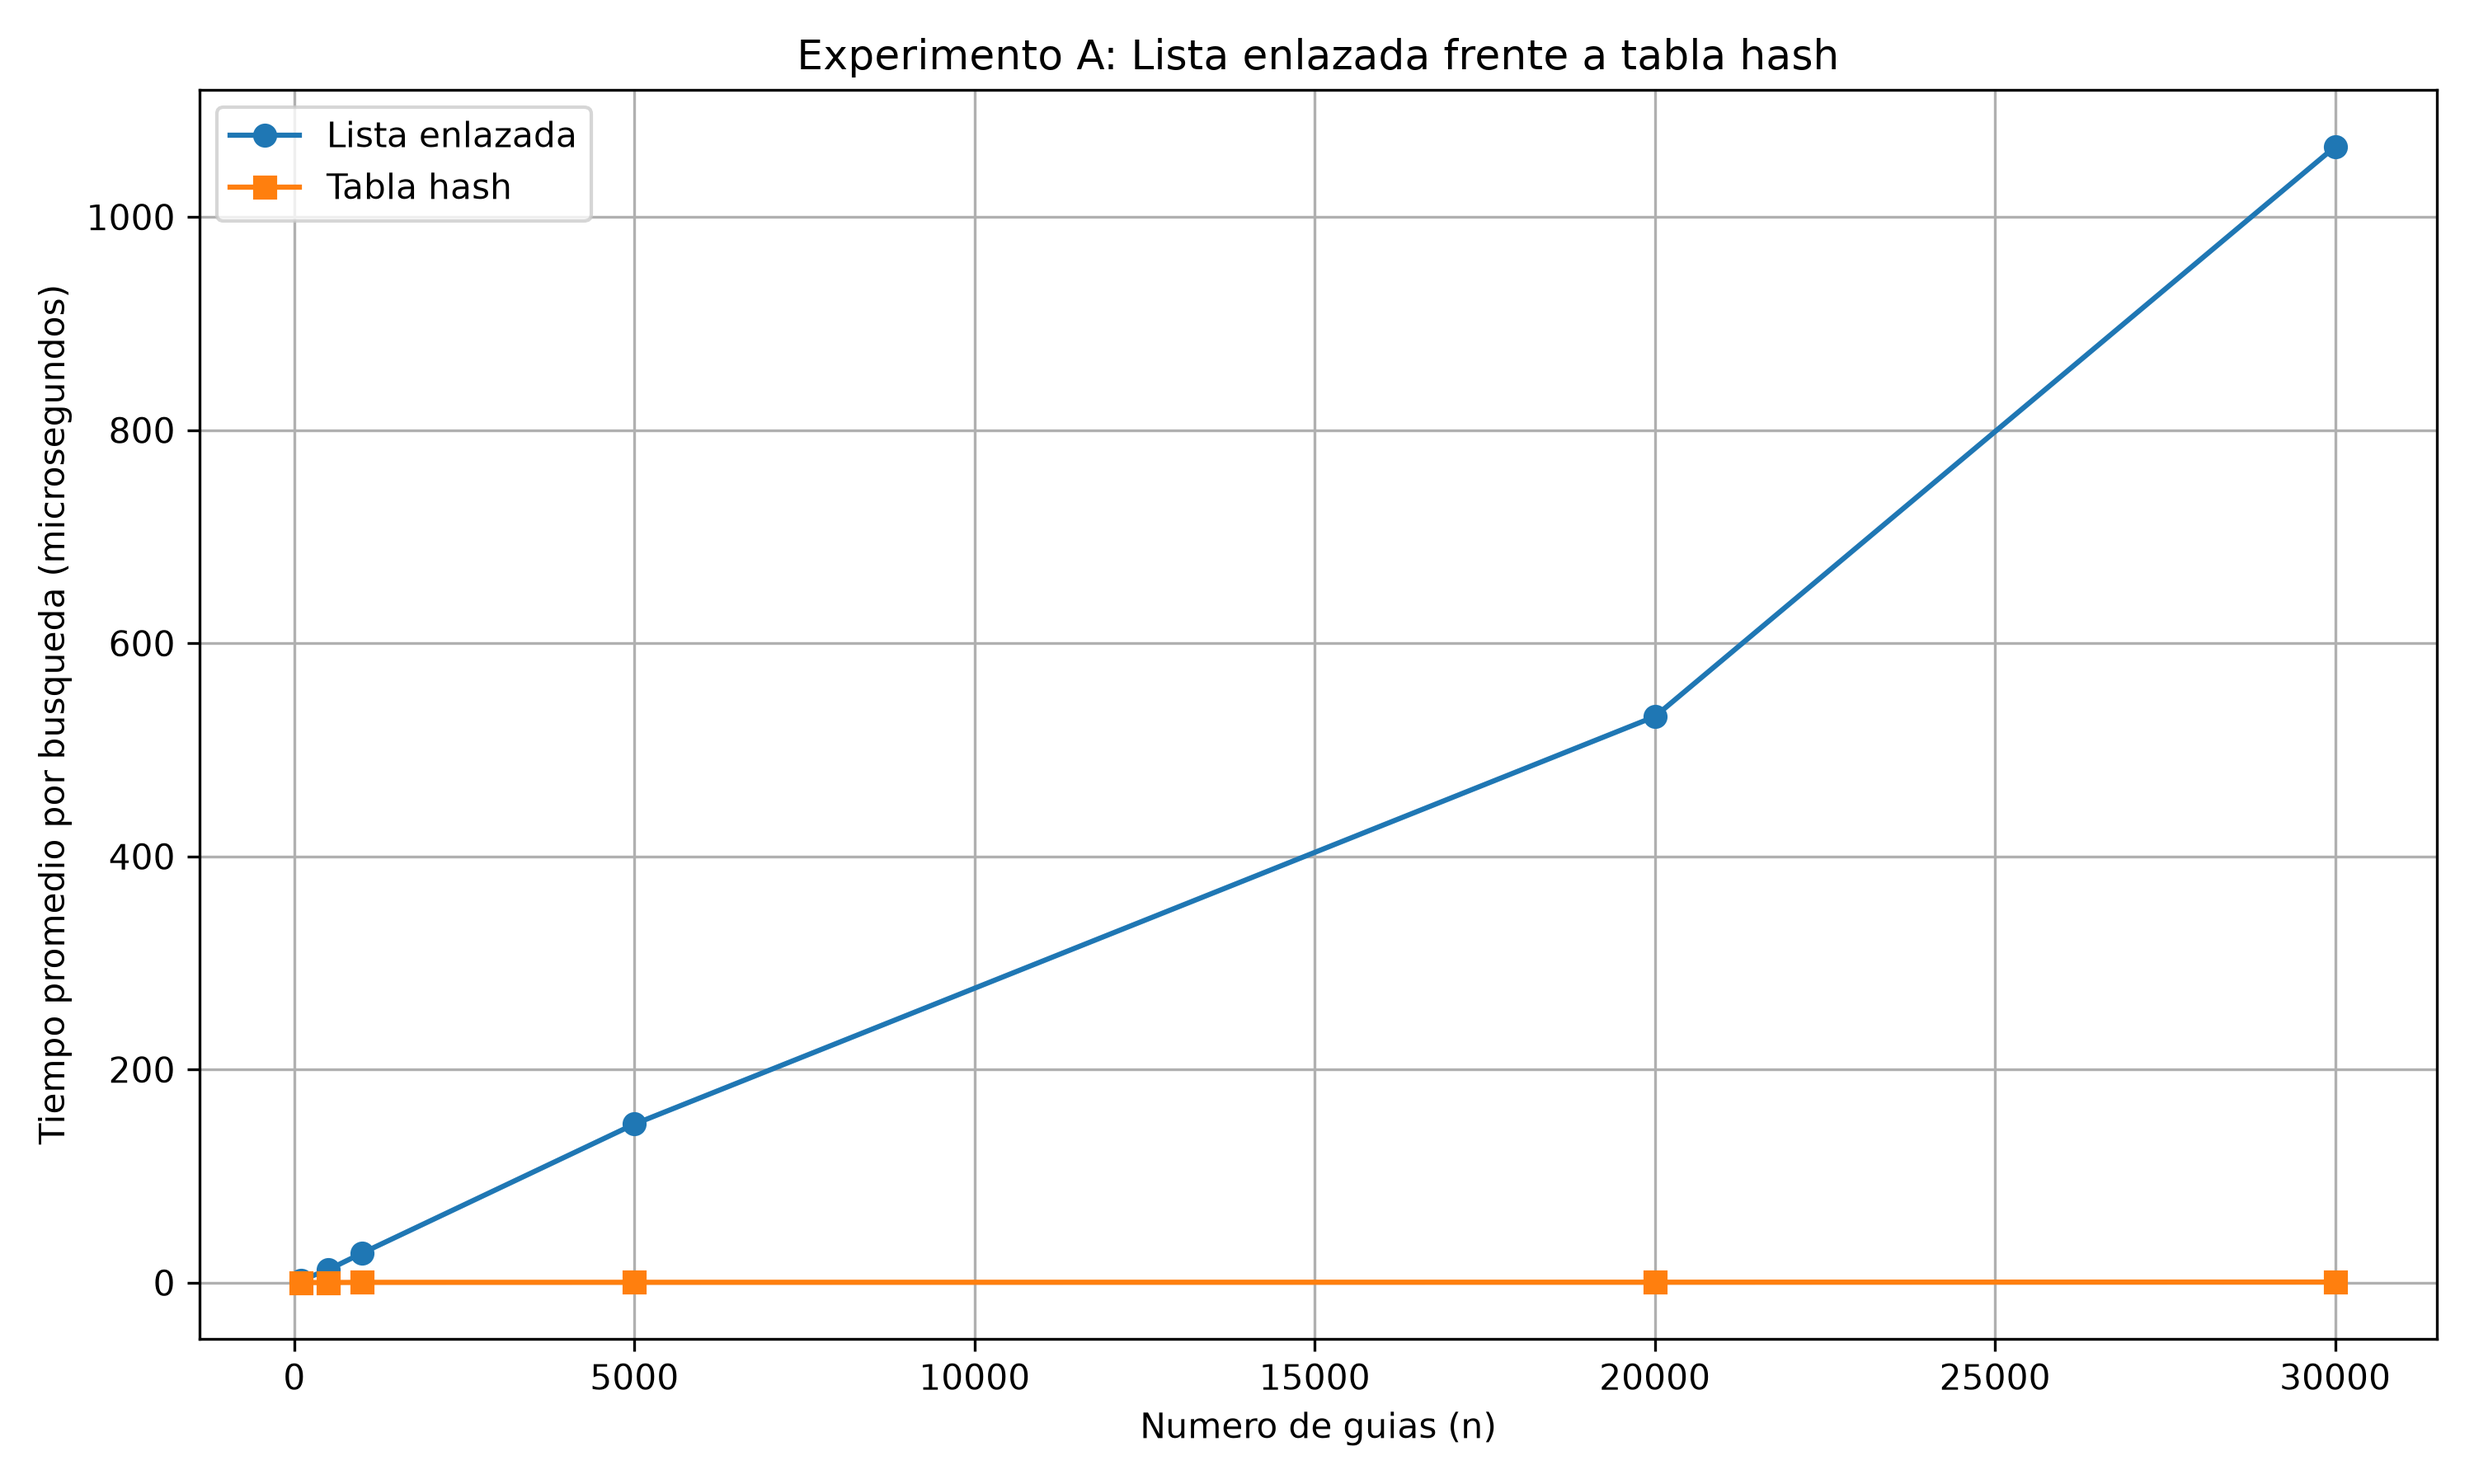
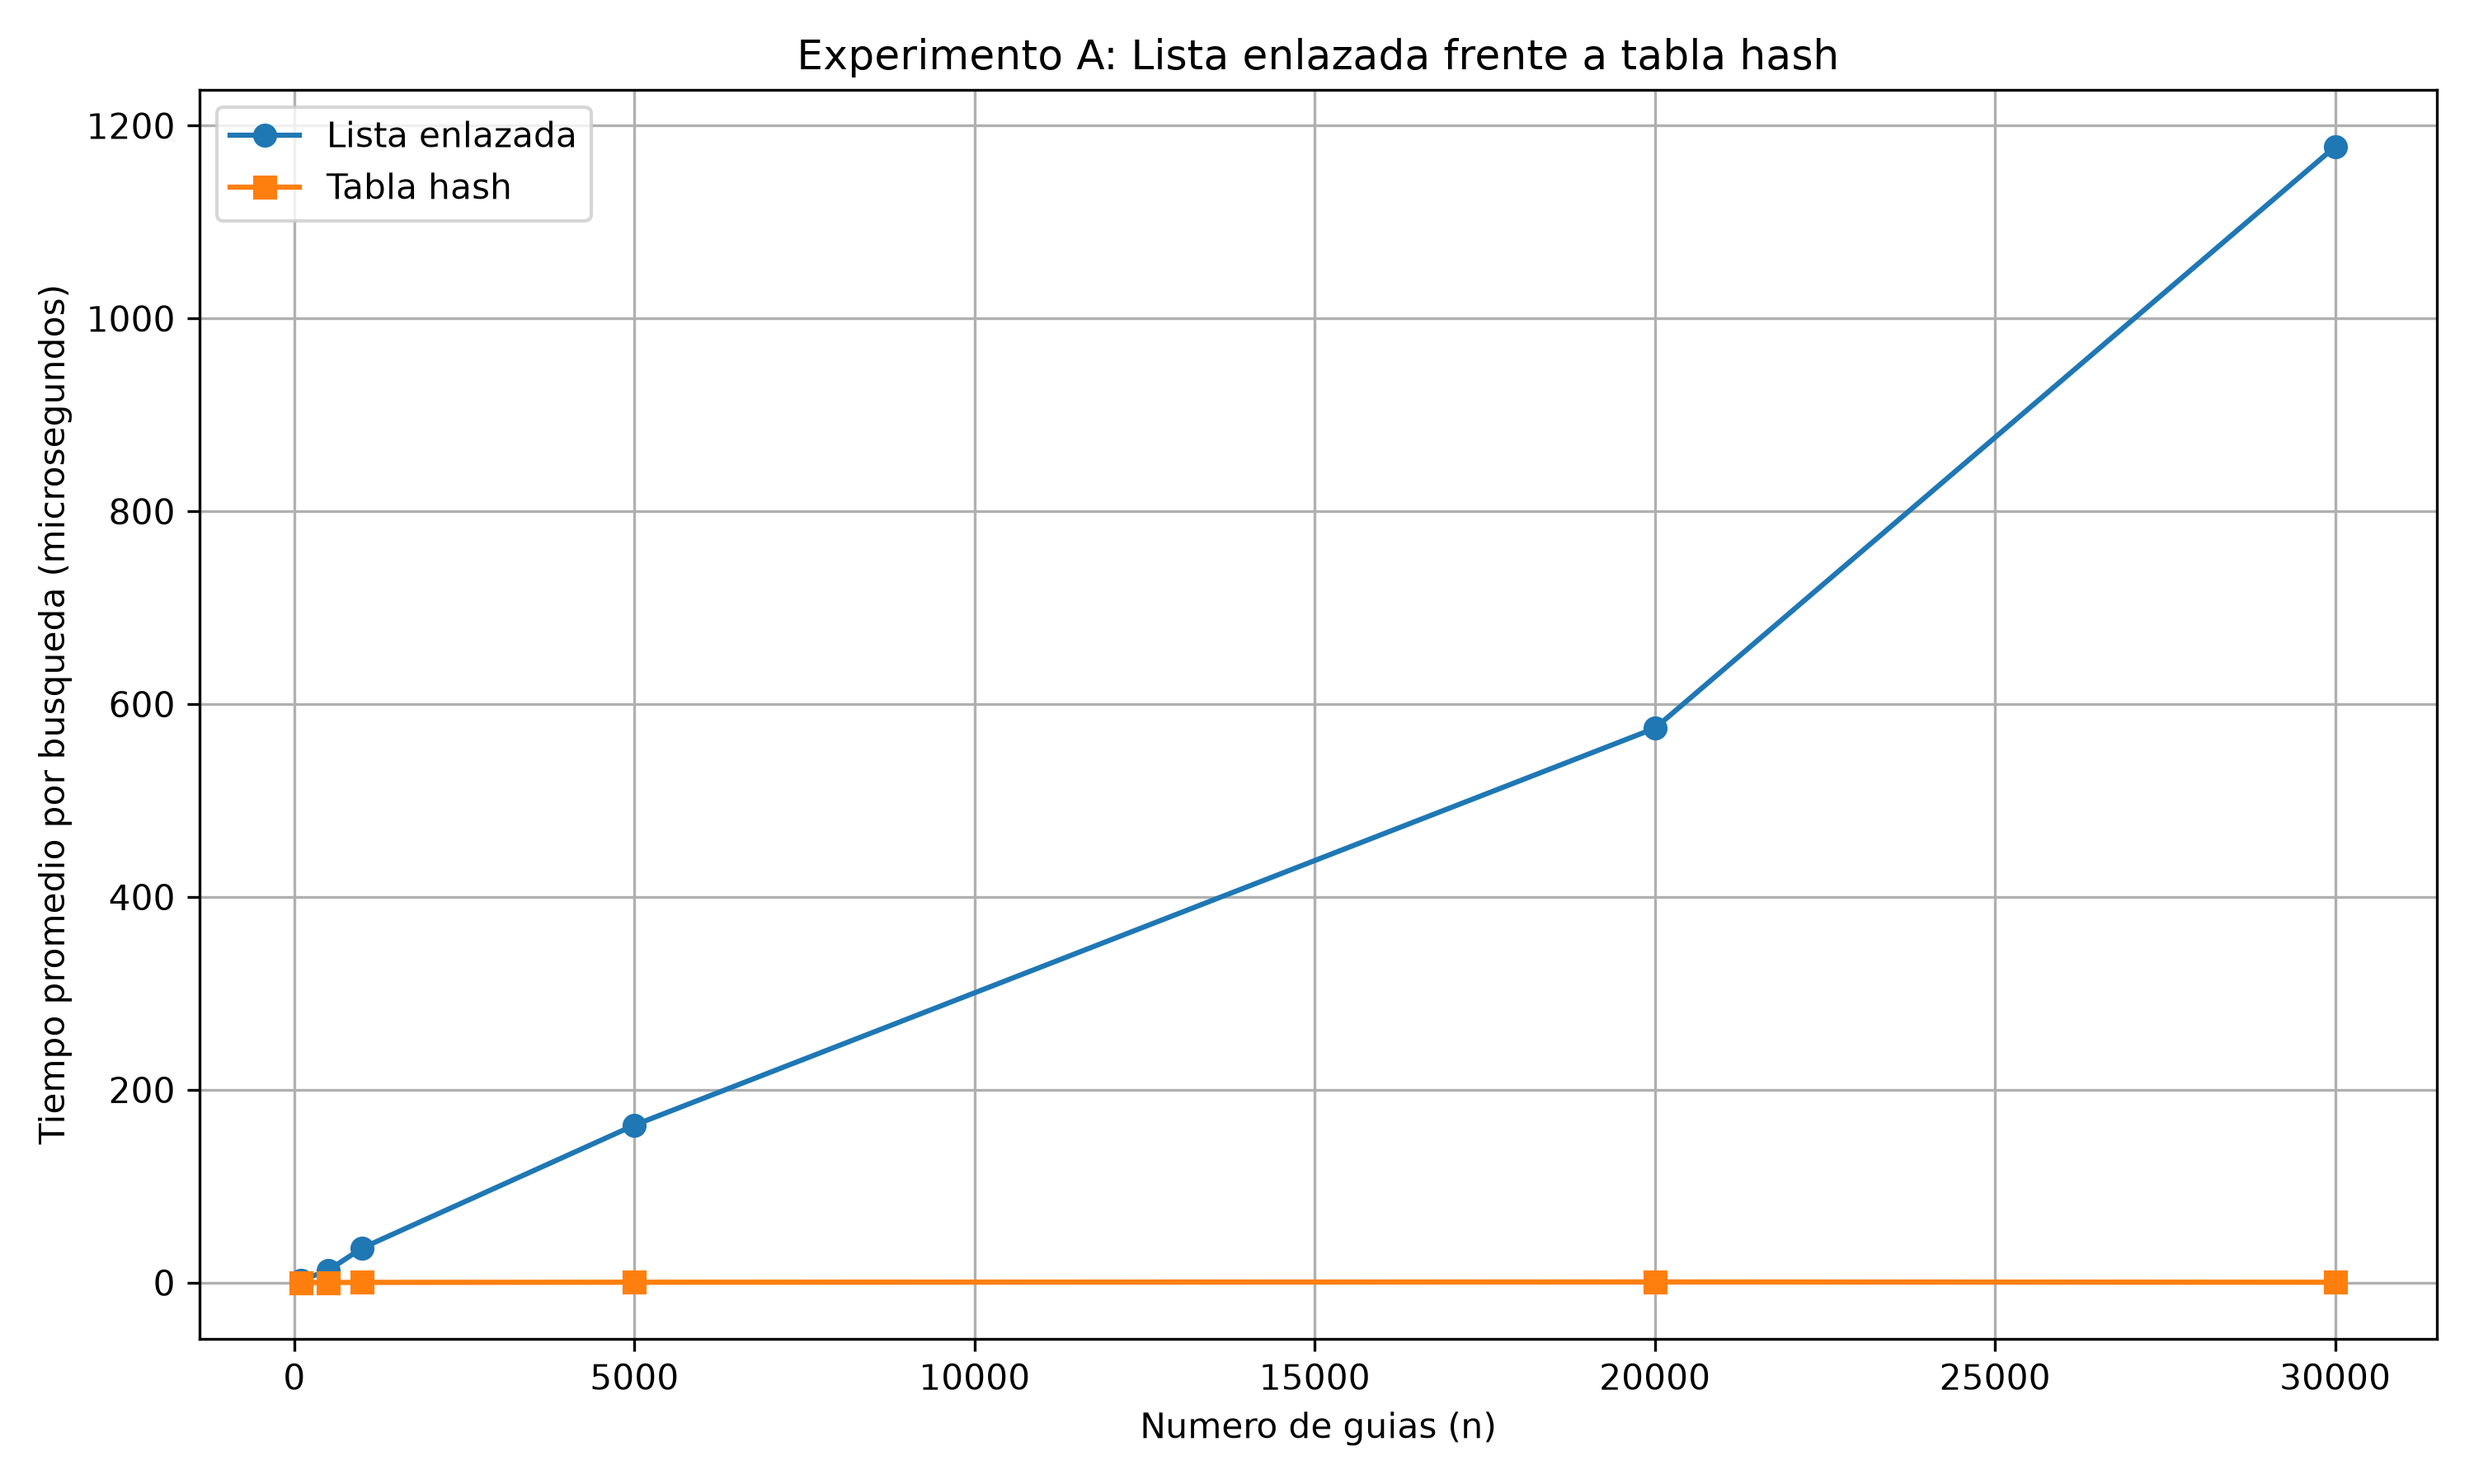
Finalización de archivo README con respuestas a preguntas

diff --git a/laboratorios/lab3-estructuras-datos/README.md b/laboratorios/lab3-estructuras-datos/README.md
@@ -49,9 +49,139 @@ cd laboratorios\lab3-estructuras-datos
 
 ```bash
 python pruebas.py
+```
 
+Este comando ejecuta las pruebas de funcionamiento de las listas enlazadas y las tablas hash.
+
+### 4. Ejecutar las mediciones
+
+```powershell
+python medicion.py
+```
+
+Este comando ejecuta los experimentos de rendimiento y genera las dos gráficas dentro de la carpeta `graficas`.
 
 ---
+
+## Parte 1 — Verificación de las estructuras
+
+**Archivos de código:** [estructuras.py](estructuras.py) | [pruebas.py](pruebas.py)
+
+Para verificar el funcionamiento de las estructuras implementadas se realizaron pruebas automatizadas mediante instrucciones `assert`, comprobando que los resultados obtenidos fueran iguales a los esperados.
+
+Se cubrieron los siguientes casos:
+
+- **Inserción y búsqueda exitosa:** comprobar que una guía almacenada devuelve su estado correspondiente.
+- **Búsqueda fallida:** verificar que una guía inexistente devuelve `None`.
+- **Colisiones:** comprobar que varias guías que generan la misma posición pueden almacenarse y recuperarse correctamente.
+- **Factor de carga:** verificar que el cálculo de la relación entre elementos y casillas sea correcto.
+- **Diferentes cantidades de datos:** comprobar el funcionamiento de las estructuras con varias colecciones de guías.
+
+Con estas pruebas se verificó que tanto la lista enlazada como la tabla hash almacenan y recuperan correctamente la información.
+
+## Parte 2 — Experimentos y mediciones
+
+**Archivo de código:** [medicion.py](medicion.py)
+
+Se realizaron dos experimentos utilizando datos generados aleatoriamente y una semilla fija para facilitar la repetición de las pruebas.
+
+Para medir el rendimiento se utilizó `time.perf_counter()`, calculando el tiempo promedio por búsqueda. Cada configuración realizó 200 búsquedas de guías inexistentes. Los resultados se expresaron en microsegundos por búsqueda.
+
+### Experimento A: lista enlazada frente a tabla hash
+
+Se aumentó la cantidad de guías y se mantuvo un factor de carga cercano a 2.
+
+| Guías (n) | Casillas (m) | Factor de carga | Lista enlazada (µs) | Tabla hash (µs) |
+|---:|---:|---:|---:|---:|
+| 100 | 47 | 2.13 | 2.41 | 0.16 |
+| 500 | 251 | 1.99 | 12.93 | 0.22 |
+| 1.000 | 499 | 2.00 | 36.02 | 0.31 |
+| 5.000 | 2.503 | 2.00 | 163.43 | 0.48 |
+| 20.000 | 10.007 | 2.00 | 575.03 | 0.79 |
+| 30.000 | 15.013 | 2.00 | 1.178,23 | 0.45 |
+
+![Gráfica A: Lista enlazada frente a tabla hash](graficas/lista_vs_tabla.png)
+
+### Experimento B: efecto del factor de carga
+
+Se mantuvieron 20.000 guías y se modificó la cantidad de casillas de la tabla.
+
+| Factor de carga (α) | Casillas (m) | Tiempo promedio (µs) |
+|---:|---:|---:|
+| 0.4999 | 40.009 | 0.54 |
+| 1.0002 | 19.997 | 0.45 |
+| 4.0008 | 4.999 | 0.75 |
+| 10.0050 | 1.999 | 1.05 |
+
+![Gráfica B: Efecto del factor de carga](graficas/tiempo_vs_alfa.png)
+
+## Parte 3 — Análisis
+
+### 1. Costo teórico
+
+Buscar algo que no existe en una lista enlazada toma tiempo Θ(n), ya que es necesario revisar cada nodo para confirmar que no está allí. En una tabla hash con encadenamiento, la búsqueda usualmente cuesta Θ(1 + α), donde α = n/m es la proporción de elementos por casilla. Esto asume que la función hash reparte los elementos de forma bastante equitativa entre las casillas. Si todos los elementos terminaran en la misma casilla, la búsqueda empeoraría hasta Θ(n), porque tendríamos que revisar toda la lista de esa única casilla.
+
+### 2. Lo medido contra lo esperado
+
+En el primer gráfico, al usar 5,000 y luego 20,000 elementos, el número de operaciones se multiplicó por cuatro. La lista enlazada, que tardaba entre 163,43 y 575,03 microsegundos, tardó aproximadamente 3,52 veces más. Esto encaja con un crecimiento lineal (Θ(n)), aunque no a la perfección debido a pequeñas fallas en las mediciones.
+
+Por otro lado, la tabla hash pasó de 0,48 a 0,79 microsegundos, lo que significa que aumentó 1,65 veces. Aunque no fue totalmente constante, sus tiempos fueron considerablemente menores y no se observó el incremento paulatino de la lista.
+
+En la segunda ilustración, al cambiar el factor de carga de casi 0,5 a 10, el tiempo de ejecución fue de 0,54 a 1,05 microsegundos. La tendencia general es ascendente y concuerda con lo esperado para Θ(1 + α), aunque se aprecia una ligera variación en los primeros datos.
+
+### 3. Explique las colisiones
+
+Una colisión ocurre cuando dos guías diferentes generan la misma posición en la tabla. Puede suceder incluso cuando hay más casillas que guías, porque distintas claves pueden producir el mismo resultado de la función hash.
+
+Con m = 7:
+
+- 10 % 7 = 3
+- 24 % 7 = 3
+- 17 % 7 = 3
+
+Las tres guías colisionan en la casilla 3.
+
+El **encadenamiento** almacena los elementos que colisionan en una lista enlazada. Su ventaja es que permite guardar varios elementos en una misma casilla; su costo es recorrer la lista cuando hay varias colisiones.
+
+El **direccionamiento abierto** busca otra casilla disponible mediante una secuencia de exploración. Su ventaja es que no necesita listas adicionales; su costo es que puede requerir varias exploraciones y presentar agrupamiento de elementos cuando la tabla se llena.
+
+### 4. Tabla hash o árbol de búsqueda
+
+Una tabla hash no sirve para buscar datos en un intervalo porque no guarda los elementos en orden. Para encontrar todos los elementos entre X e Y, habría que mirar en muchos sitios.
+
+Un árbol de búsqueda binario sí organiza las claves y permite buscar intervalos bajando por las ramas correctas. En un árbol balanceado, buscar en un intervalo cuesta O(log n + k), donde k es el número de resultados.
+
+Si los 400.000 elementos llegan ya ordenados y se meten uno a uno en un árbol binario normal, este podría convertirse en algo parecido a una lista. Tendría casi 400.000 niveles y una búsqueda podría requerir unas 400.000 comparaciones.
+
+Por otro lado, un árbol balanceado tendría una altura de aproximadamente:
+
+$$
+\log_2(400000) \approx 18.61
+$$
+
+Es decir, unos 19 niveles, reduciendo considerablemente las comparaciones.
+
+### 5. Concepto para la jefa de operaciones
+
+Recomendaría combinar ambas estructuras: una tabla hash para las búsquedas puntuales por número de guía y un árbol binario de búsqueda equilibrado para las consultas por rangos.
+
+Para estimar el tiempo con 5.000.000 de envíos, la lista enlazada presenta un comportamiento aproximadamente lineal. Tomando como referencia los 30.000 elementos medidos, cuyo tiempo fue de 1.178,23 µs, se obtiene la siguiente estimación:
+
+$$
+T( n ) \approx 0.03927 \times n \quad \text{microsegundos}
+$$
+
+Por tanto:
+
+$$
+T(5000000) \approx 196371.67\ \mu s
+$$
+
+Esto equivale aproximadamente a **196,37 milisegundos por búsqueda**.
+
+Para la tabla hash, suponiendo que se conserva un factor de carga cercano a 2, con aproximadamente 2.500.000 casillas, el tiempo esperado se mantiene aproximadamente constante respecto a la cantidad total de elementos. Tomando como referencia las mediciones del experimento A, se estima un tiempo cercano a **0,5–0,8 microsegundos por búsqueda**.
+
+Estos valores son estimaciones y no mediciones directas con cinco millones de envíos. El resultado real depende de la distribución de las guías, las colisiones y las condiciones del equipo.
 
 ## Autores
 
